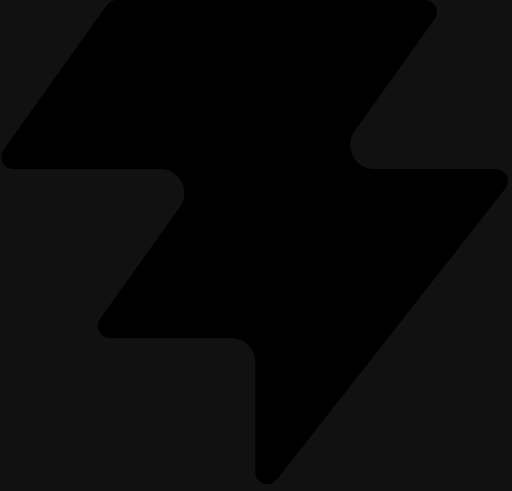
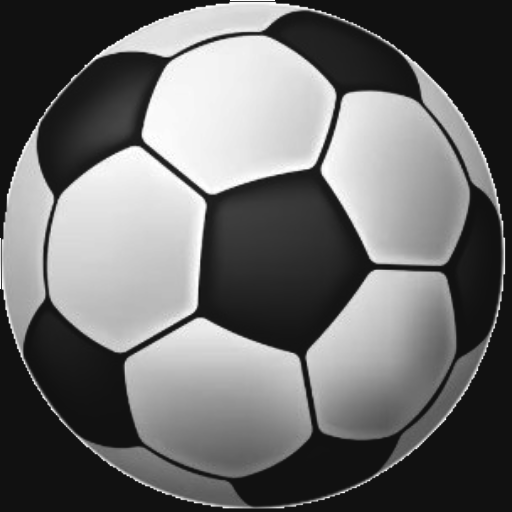
Updates

diff --git a/sw.js b/sw.js
@@ -1,1 +1,1 @@
-if(!self.define){let e,i={};const n=(n,s)=>(n=new URL(n+".js",s).href,i[n]||new Promise(i=>{if("document"in self){const e=document.createElement("script");e.src=n,e.onload=i,document.head.appendChild(e)}else e=n,importScripts(n),i()}).then(()=>{let e=i[n];if(!e)throw new Error(`Module ${n} didn’t register its module`);return e}));self.define=(s,o)=>{const r=e||("document"in self?document.currentScript.src:"")||location.href;if(i[r])return;let c={};const a=e=>n(e,r),l={module:{uri:r},exports:c,require:a};i[r]=Promise.all(s.map(e=>l[e]||a(e))).then(e=>(o(...e),c))}}define(["./workbox-0957812c"],function(e){"use strict";self.addEventListener("message",e=>{e.data&&"SKIP_WAITING"===e.data.type&&self.skipWaiting()}),e.precacheAndRoute([{url:"registerSW.js",revision:"70eb110eacbf643d8bb3c1b4b5f4e25e"},{url:"manifest.webmanifest",revision:"357f941d8ba65e849fe0160bda28d405"},{url:"m3.png",revision:"6a0dac0e508d739fadbfe54f20933e68"},{url:"m2.png",revision:"db1de147812b20de1c43b9af7922bf62"},{url:"m1.png",revision:"a1943257fa1c4dfac52e90955e117944"},{url:"index.html",revision:"ac0e10d809be7658fc70d2fe32066895"},{url:"icons.svg",revision:"3b4fcfcf393eca4d264dca4a4663bc37"},{url:"icon-512.png",revision:"dea15be39122555f73c37fb1dedfb178"},{url:"icon-192.png",revision:"4e6ac2ce2d47ad274bc6e57966924fc5"},{url:"favicon.svg",revision:"7e840862161341271697daa99a40d76b"},{url:"balon.png",revision:"65863f17bba3791268535cad9fb2008a"},{url:"404.html",revision:"ac0e10d809be7658fc70d2fe32066895"},{url:"tutorial/step-5.svg",revision:"05918d5ecc85f02135f1b7e584d0cb83"},{url:"tutorial/step-4.svg",revision:"def8d35f265331066478a03da1ad65e6"},{url:"tutorial/step-3.svg",revision:"a900a0e4f455003b031809fa71910ec5"},{url:"tutorial/step-2.svg",revision:"160e4e0884bca4454c9668cd1bc143ef"},{url:"tutorial/step-1.svg",revision:"1f041eea89dee372b7a395c4f2313536"},{url:"assets/workbox-window.prod.es5-Bd17z0YL.js",revision:null},{url:"assets/index-C8qoqWno.js",revision:null},{url:"assets/index-B4MNgZji.css",revision:null},{url:"balon.png",revision:"65863f17bba3791268535cad9fb2008a"},{url:"countries.json",revision:"6a4e4c95c2c9d61fa62cae1b3bceb5c4"},{url:"favicon.svg",revision:"7e840862161341271697daa99a40d76b"},{url:"icon-192.png",revision:"4e6ac2ce2d47ad274bc6e57966924fc5"},{url:"icon-512.png",revision:"dea15be39122555f73c37fb1dedfb178"},{url:"manifest.webmanifest",revision:"357f941d8ba65e849fe0160bda28d405"}],{}),e.cleanupOutdatedCaches(),e.registerRoute(new e.NavigationRoute(e.createHandlerBoundToURL("/polla/index.html"))),e.registerRoute(/^https:\/\/app\.iedeoccidente\.com\/gs\//,new e.NetworkOnly({cacheName:"gs-no-cache",plugins:[]}),"GET"),e.registerRoute(/^https:\/\/raw\.githubusercontent\.com\/openfootball\//,new e.NetworkOnly({cacheName:"openfootball-no-cache",plugins:[]}),"GET"),e.registerRoute(/^https:\/\/app\.iedeoccidente\.com\/pollaweb\//,new e.StaleWhileRevalidate({cacheName:"polla-config",plugins:[]}),"GET")});
+if(!self.define){let e,i={};const n=(n,s)=>(n=new URL(n+".js",s).href,i[n]||new Promise(i=>{if("document"in self){const e=document.createElement("script");e.src=n,e.onload=i,document.head.appendChild(e)}else e=n,importScripts(n),i()}).then(()=>{let e=i[n];if(!e)throw new Error(`Module ${n} didn’t register its module`);return e}));self.define=(s,o)=>{const a=e||("document"in self?document.currentScript.src:"")||location.href;if(i[a])return;let r={};const c=e=>n(e,a),l={module:{uri:a},exports:r,require:c};i[a]=Promise.all(s.map(e=>l[e]||c(e))).then(e=>(o(...e),r))}}define(["./workbox-0957812c"],function(e){"use strict";self.addEventListener("message",e=>{e.data&&"SKIP_WAITING"===e.data.type&&self.skipWaiting()}),e.precacheAndRoute([{url:"registerSW.js",revision:"70eb110eacbf643d8bb3c1b4b5f4e25e"},{url:"manifest.webmanifest",revision:"357f941d8ba65e849fe0160bda28d405"},{url:"m3.png",revision:"6a0dac0e508d739fadbfe54f20933e68"},{url:"m2.png",revision:"db1de147812b20de1c43b9af7922bf62"},{url:"m1.png",revision:"a1943257fa1c4dfac52e90955e117944"},{url:"index.html",revision:"ac0e10d809be7658fc70d2fe32066895"},{url:"icons.svg",revision:"3b4fcfcf393eca4d264dca4a4663bc37"},{url:"icon-512.png",revision:"3458bad13e3af2fae7e30f23131ab01e"},{url:"icon-192.png",revision:"a1e1b2e16ccf3cdf48c20432de9402e2"},{url:"favicon.svg",revision:"7e840862161341271697daa99a40d76b"},{url:"balon.png",revision:"65863f17bba3791268535cad9fb2008a"},{url:"404.html",revision:"ac0e10d809be7658fc70d2fe32066895"},{url:"tutorial/step-5.svg",revision:"05918d5ecc85f02135f1b7e584d0cb83"},{url:"tutorial/step-4.svg",revision:"def8d35f265331066478a03da1ad65e6"},{url:"tutorial/step-3.svg",revision:"a900a0e4f455003b031809fa71910ec5"},{url:"tutorial/step-2.svg",revision:"160e4e0884bca4454c9668cd1bc143ef"},{url:"tutorial/step-1.svg",revision:"1f041eea89dee372b7a395c4f2313536"},{url:"assets/workbox-window.prod.es5-Bd17z0YL.js",revision:null},{url:"assets/index-C8qoqWno.js",revision:null},{url:"assets/index-B4MNgZji.css",revision:null},{url:"balon.png",revision:"65863f17bba3791268535cad9fb2008a"},{url:"countries.json",revision:"6a4e4c95c2c9d61fa62cae1b3bceb5c4"},{url:"favicon.svg",revision:"7e840862161341271697daa99a40d76b"},{url:"icon-192.png",revision:"a1e1b2e16ccf3cdf48c20432de9402e2"},{url:"icon-512.png",revision:"3458bad13e3af2fae7e30f23131ab01e"},{url:"manifest.webmanifest",revision:"357f941d8ba65e849fe0160bda28d405"}],{}),e.cleanupOutdatedCaches(),e.registerRoute(new e.NavigationRoute(e.createHandlerBoundToURL("/polla/index.html"))),e.registerRoute(/^https:\/\/app\.iedeoccidente\.com\/gs\//,new e.NetworkOnly({cacheName:"gs-no-cache",plugins:[]}),"GET"),e.registerRoute(/^https:\/\/raw\.githubusercontent\.com\/openfootball\//,new e.NetworkOnly({cacheName:"openfootball-no-cache",plugins:[]}),"GET"),e.registerRoute(/^https:\/\/app\.iedeoccidente\.com\/pollaweb\//,new e.StaleWhileRevalidate({cacheName:"polla-config",plugins:[]}),"GET")});